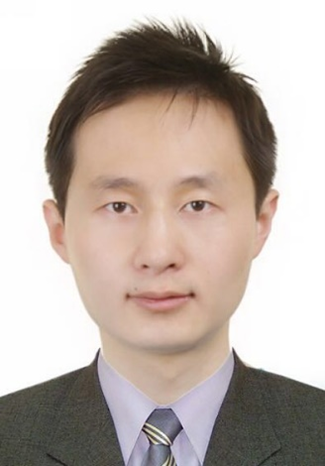
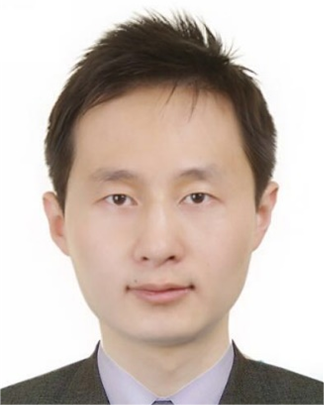
update

diff --git a/index_files/index(1).css b/index_files/index(1).css
@@ -949,17 +949,22 @@ body {
     height: 128px;
     position: relative;
     background-size: 100% 100%;
+    overflow: hidden; /* 隐藏超出容器的部分 */
+    border-radius: 50%; /* 设置圆形边框 */
 }
 
-.lx_picBox>img {
+.lx_picBox > img {
+    width: 112px; /* 固定宽度 */
+    height: 112px; /* 固定高度 */
+    object-fit: cover; /* 覆盖整个容器，可能会裁剪图片 */
     position: absolute;
-    width: 112px; /* 使用固定宽度而不是 max-width */
-    height: 112px; /* 使用固定高度而不是 max-height */
     top: 50%;
     left: 50%;
     transform: translate(-50%, -50%);
     border-radius: 50%; /* 保持圆形边界 */
 }
+
+
 
 
 .lx_chairText {
